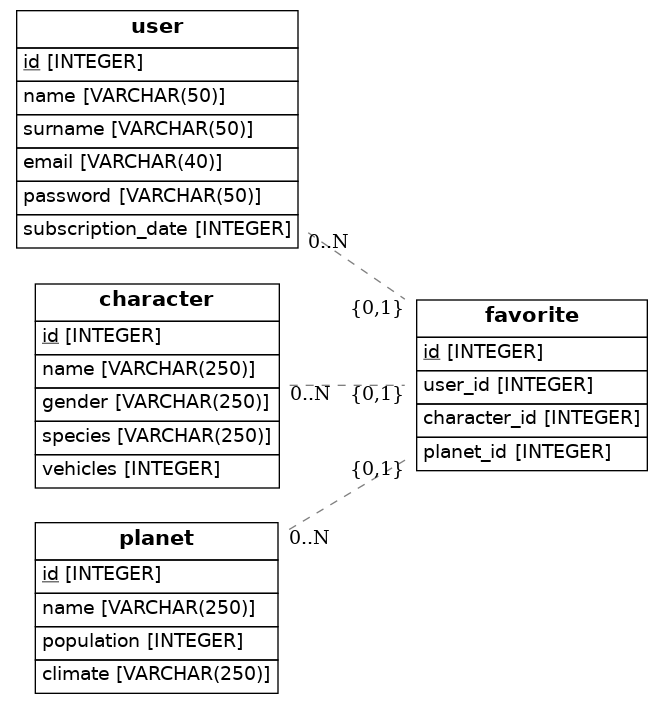
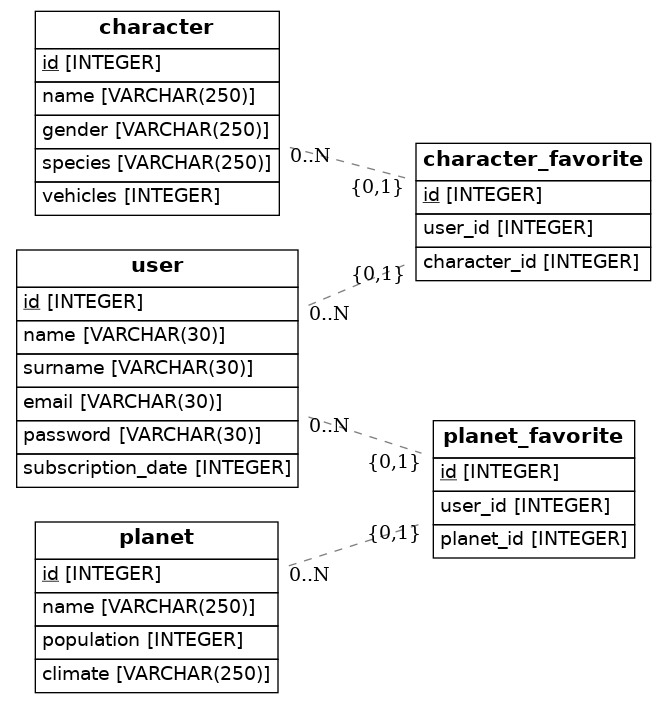
ejercicio modificado

diff --git a/src/models.py b/src/models.py
@@ -13,37 +13,45 @@ class User(Base):
     # Here we define columns for the table person
     # Notice that each column is also a normal Python instance attribute.
     id = Column(Integer, primary_key=True)
-    name = Column(String(50), nullable=False)
-    surname = Column(String(50), nullable=False)
-    email = Column(String(40), nullable=False)
-    password = Column(String(50), nullable=False)
+    name = Column(String(30), nullable=False)
+    surname = Column(String(30), nullable=False)
+    email = Column(String(30), unique = True, nullable=False)
+    password = Column(String(30), unique = True, nullable=False)
     subscription_date = Column(Integer, nullable=False)
+
 
 class Character(Base):
     __tablename__ = 'character'
     # Here we define columns for the table address.
     # Notice that each column is also a normal Python instance attribute.
     id = Column(Integer, primary_key=True)
-    name = Column(String(250))
-    gender = Column(String(250))
+    name = Column(String(250), unique = True, nullable=False)
+    gender = Column(String(250), nullable=False)
     species = Column(String(250), nullable=False)
     vehicles = Column(Integer, nullable=False)
     planet = relationship(User)
 
+
 class Planet(Base):
     __tablename__ = 'planet'
     id = Column(Integer, primary_key=True)
-    name = Column(String(250), nullable=False)
+    name = Column(String(250), unique = True, nullable=False)
     population = Column(Integer, nullable=False)
     climate = Column(String(250), nullable=False)
 
-class Favorite(Base):
-    __tablename__ = 'favorite'  
+
+class Character_Favorite(Base):
+    __tablename__ = 'character_favorite'  
     id = Column(Integer, primary_key=True)
     user_id = Column(Integer, ForeignKey('user.id'))
     character_id = Column(Integer, ForeignKey('character.id'))
-    planet_id = Column(Integer, ForeignKey('planet.id'))
 
+    
+class Planet_Favorite(Base):
+    __tablename__ = 'planet_favorite'
+    id = Column(Integer, primary_key=True)
+    user_id = Column(Integer, ForeignKey('user.id'))
+    planet_id = Column(Integer, ForeignKey('planet.id'))
 
     def to_dict(self):
         return {}
